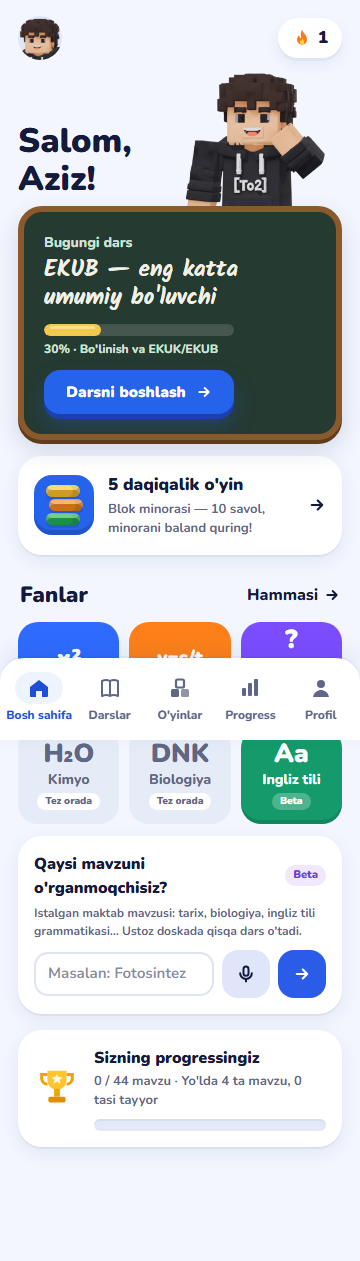
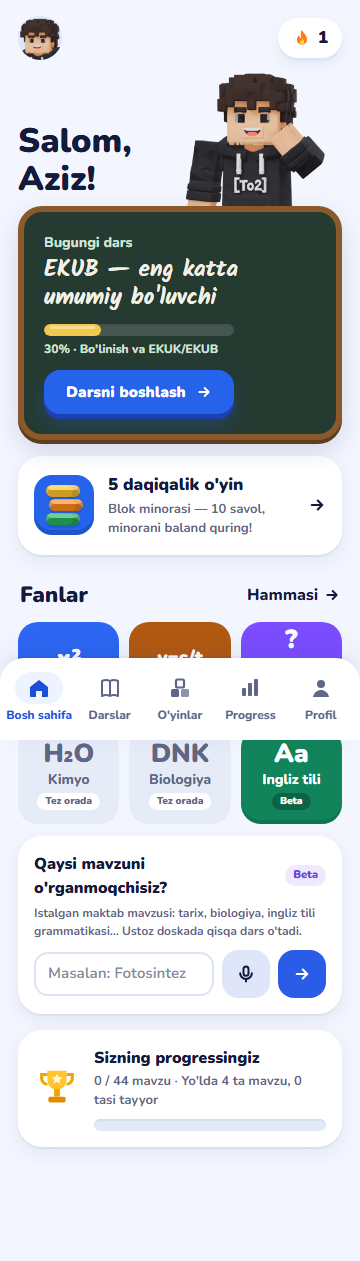
fix(ui): P3 — classroom hero with live TutorHero, Tez orada row, flat cards, guest greeting, one settings entry, decimal comma
- C5/C6/C7: picker hero = flat classroom + #4's TutorHero (wave on select, lip-sync to the greeting), bubble beside
  the head; selected tutor not repeated in the grid; locked tutors in a small "Tez orada" row (tap = greeting)
- U3: no gradient washes — chalkboard "Bugungi dars" card, flat AA tiles (aaFill), flat card-head/icon-tile/buttons,
  splash and success screen; contrast issues the gradients hid are fixed (axe green)
- U4: no "Salom, Mehmon!" — guests get "Salom!" + the tutor's line; onboarding doesn't prefill "Mehmon"
- U6: settings only under the Profil tab (Home gear removed)
- G5/U7: uzDecimal() for question text, options and prompts outside games; checker input unchanged

Changed region(s): [[0.3361, 0.4948, 0.6417, 0.5258], [0.7639, 0.6186, 0.8556, 0.6495]]

diff --git a/src/components/characters/TutorPicker.tsx b/src/components/characters/TutorPicker.tsx
@@ -2,7 +2,8 @@
 // "Qahramonlar" (prototype screen 4), 25 Nov report C5–C7:
 // - hero = the selected tutor, FULL BODY, in a flat classroom (wall · chalkboard with the name in chalk · wood floor);
 //   no gradient wash. The greeting bubble sits BESIDE the tutor's head (left of it), never over the face.
-//   The hero's tutor slot is <HeroTutor/>: today a full-body portrait; #4's live 3D TutorHero swaps in there.
+//   The hero's tutor is #4's live 3D <TutorHero/> (idle · waves on select · lip-sync to the greeting); it shows
+//   the full-body portrait until the model draws or if WebGL fails. Only the hero has a canvas: grid = portraits.
 // - "Ustozlar": the other selectable tutors (the selected one is not repeated — it is the hero).
 // - "Tez orada": locked tutors as a small row; a tap shakes the card and plays its greeting (static file or
 //   captions only — greet() never asks /api/tts for a line that isn't cached), the words shown under the row.
@@ -13,17 +14,10 @@ import { greetingApiAllowed, greetingClip } from "@/lib/audio/greetings";
 import { readPref } from "@/lib/client/prefs";
 import { t } from "@/i18n/uz";
 import TutorPortrait from "./TutorPortrait";
+import TutorHero from "./TutorHero";
 import { LockIcon, SpeakerIcon } from "@/components/ui/icons";
 import { Burst } from "@/components/ui/Celebrate";
 
-/** The tutor in the hero. Swap point for #4's live 3D TutorHero (idle · wave on select · lip-sync). */
-function HeroTutor({ id, waveKey }: { id: CharacterId; waveKey: number }) {
-  return (
-    <div key={`${id}-${waveKey}`} className="bounce-in absolute right-[-14px] bottom-[8px] h-[272px] w-[204px]" data-testid="hero-tutor">
-      <TutorPortrait id={id} pose={waveKey ? "wave" : "idle"} frame="full" className="h-full w-full" style={{ objectFit: "contain", objectPosition: "50% 100%" }} />
-    </div>
-  );
-}
 
 export default function TutorPicker({ value, onChange, xp, streak }: { value: CharacterId; onChange: (id: CharacterId) => void; xp: number; streak: number }) {
   const sel = getCharacter(value);
@@ -31,6 +25,8 @@ export default function TutorPicker({ value, onChange, xp, streak }: { value: Ch
   const [bump, setBump] = useState(0);
   /** the greeting being said now (shown in a bubble until it ends) */
   const [saying, setSaying] = useState<{ id: string; text: string } | null>(null);
+  /** the Speech of the greeting playing now — the hero's mouth follows it */
+  const [speech, setSpeech] = useState<{ id: string; s: Speech } | null>(null);
   const current = useRef<Speech | null>(null);
   const turn = useRef(0);
 
@@ -47,13 +43,17 @@ export default function TutorPicker({ value, onChange, xp, streak }: { value: Ch
     unlockAudio();
     current.current?.stop();
     current.current = null;
+    setSpeech(null);
     const my = ++turn.current;
     setSaying({ id: c.id, text: c.hi });
     const start = (s: Speech) => {
       if (my !== turn.current) return s.stop();
       current.current = s;
+      setSpeech({ id: c.id, s });
       void s.ended.then(() => {
-        if (my === turn.current) setSaying(null);
+        if (my !== turn.current) return;
+        setSaying(null);
+        setSpeech(null);
       });
     };
     if (readPref("sound", "1") === "0") return start(speak(c.hi, c.id, { muted: true }));
@@ -96,7 +96,9 @@ export default function TutorPicker({ value, onChange, xp, streak }: { value: Ch
         {/* wood floor */}
         <div aria-hidden className="absolute inset-x-0 bottom-0 h-[64px] border-t-4 border-[#a87442] bg-[#c08a55]" />
         <Burst fire={bump} count={14} />
-        <HeroTutor id={value} waveKey={bump} />
+        <div className="absolute right-[-14px] bottom-[8px] h-[272px] w-[204px]" data-testid="hero-tutor">
+          <TutorHero id={value} speaking={speech?.id === sel.id ? speech.s : null} wave={bump} className="h-full w-full" />
+        </div>
         <h2 className="sr-only">{`${sel.name} — ${sel.tag}`}</h2>
         <div aria-live="polite" className="absolute top-3 left-3 w-[58%]">
           {bubble && (

diff --git a/src/app/home/page.tsx b/src/app/home/page.tsx
@@ -12,6 +12,7 @@ import { SUBJECTS } from "@/config/subjects";
 import TopicAsk from "@/components/home/TopicAsk";
 import { getCharacter } from "@/config/characters";
 import { GUEST_NAME } from "@/config/brand";
+import { aaFill } from "@/lib/format/color";
 import { useMe } from "@/lib/client/me";
 
 export default function HomePage() {
@@ -121,7 +122,7 @@ export default function HomePage() {
                 <b className={`${s.icon.length > 3 ? "text-[19px]" : "text-[26px]"} leading-none font-black`}>{s.icon}</b>
                 <span className="px-1 text-center leading-tight">{s.name}</span>
                 {s.status !== "live" && (
-                  <span className={`rounded-full px-2 py-[1px] text-[10px] font-black ${s.status === "beta" ? "bg-white/25 text-white" : "bg-white text-[#5f6787]"}`}>
+                  <span className={`rounded-full px-2 py-[1px] text-[10px] font-black ${s.status === "beta" ? "bg-black/25 text-white" : "bg-white text-[#5f6787]"}`}>
                     {s.status === "beta" ? t.home.beta : t.home.soon}
                   </span>
                 )}
@@ -140,7 +141,7 @@ export default function HomePage() {
                 href={s.href ?? "#istalgan-mavzu"}
                 onClick={s.href ? undefined : () => setTimeout(() => document.getElementById("topic-input")?.focus(), 50)}
                 className={`${cls} text-white shadow-[inset_0_-4px_0_rgba(0,0,0,.12)]`}
-                style={{ background: s.to }}
+                style={{ background: aaFill(s.to) }}
               >
                 {body}
               </Link>

diff --git a/src/lib/format/color.ts b/src/lib/format/color.ts
@@ -1,0 +1,33 @@
+// Colour helpers for flat fills with white text (WCAG AA). Used where a config colour (e.g. a subject's
+// accent in src/config/subjects.ts) becomes a flat tile background: we darken it just enough for white text.
+
+function rgb(hex: string): [number, number, number] {
+  const h = hex.replace("#", "");
+  const f = h.length === 3 ? h.split("").map((c) => c + c).join("") : h;
+  return [0, 2, 4].map((i) => parseInt(f.slice(i, i + 2), 16)) as [number, number, number];
+}
+const lin = (c: number) => {
+  const s = c / 255;
+  return s <= 0.03928 ? s / 12.92 : ((s + 0.055) / 1.055) ** 2.4;
+};
+export function luminance(hex: string): number {
+  const [r, g, b] = rgb(hex).map(lin);
+  return 0.2126 * r + 0.7152 * g + 0.0722 * b;
+}
+/** contrast ratio of white text on `hex` */
+export const contrastWithWhite = (hex: string) => 1.05 / (luminance(hex) + 0.05);
+
+const toHex = (n: number) => Math.max(0, Math.min(255, Math.round(n))).toString(16).padStart(2, "0");
+
+/** `hex` darkened (towards black, same hue) until white text on it reaches `min` (default 4.6, a hair over AA 4.5). */
+export function aaFill(hex: string, min = 4.6): string {
+  let [r, g, b] = rgb(hex);
+  let out = `#${toHex(r)}${toHex(g)}${toHex(b)}`;
+  for (let i = 0; i < 40 && contrastWithWhite(out) < min; i++) {
+    r *= 0.95;
+    g *= 0.95;
+    b *= 0.95;
+    out = `#${toHex(r)}${toHex(g)}${toHex(b)}`;
+  }
+  return out;
+}

diff --git a/src/lib/format/color.test.ts b/src/lib/format/color.test.ts
@@ -1,0 +1,17 @@
+import { describe, expect, it } from "vitest";
+import { aaFill, contrastWithWhite } from "./color";
+
+describe("aaFill (flat tile colour readable with white text)", () => {
+  it("leaves colours that already pass alone", () => {
+    expect(aaFill("#1d4ed8")).toBe("#1d4ed8");
+  });
+  it("darkens light accents until white text passes AA", () => {
+    for (const c of ["#ff8019", "#9d79ff", "#50b390", "#2f6bff", "#159a6b", "#ffc42e"]) {
+      const out = aaFill(c);
+      expect(contrastWithWhite(out)).toBeGreaterThanOrEqual(4.5);
+    }
+  });
+  it("matches the known ratio for the primary blue", () => {
+    expect(contrastWithWhite("#2563eb")).toBeCloseTo(5.17, 1);
+  });
+});

diff --git a/src/app/page.tsx b/src/app/page.tsx
@@ -13,7 +13,7 @@ export default function Landing() {
   return (
     <main className="bg-ph">
       {/* 1 · splash */}
-      <section className="relative flex min-h-dvh flex-col items-center overflow-hidden text-white" style={{ background: "#2358dc" }}>
+      <section className="relative flex min-h-dvh flex-col items-center overflow-hidden text-white" style={{ background: "#1d4ed8" }}>
         <div aria-hidden className="pointer-events-none absolute inset-0 font-black text-white/90">
           <span className="absolute left-[7%] top-[36%] text-[52px]">+</span>
           <span className="absolute right-[10%] top-[30%] text-[44px]">÷</span>

diff --git a/REPORT.md b/REPORT.md
@@ -1280,3 +1280,46 @@ demo at `/dev/hero`, 404 in production). The lesson tutor's rest spot now keeps 
   generates voice. That's within caps (warn 15k / hard 60k), but worth knowing for the budget.
 - **#10 (games P3):** WIP only (`4a0b681` on `feat/games-p3`: shared sfx, +XP, full-body tutor, Blok minorasi building site). Its session
   hit its usage limit. Not merged; Tezkor hisob, Juftini top, G5 and e2e are still open.
+
+## 🎨 P3 — picker, flat cards, greeting, settings, decimal comma (#5 To2-UI, branch `fix/ui-p3`, 28 Nov) — not deployed
+Fix ids from the 25 Nov report: **C5, C6, C7, U3, U4, U6, G5/U7 (outside games)**, plus #4's `TutorHero` swapped in. 0 VoiceLab credits.
+
+**Picker (`TutorPicker.tsx`, used by `/tutors` and `/onboarding`):**
+- **C7 hero:** a flat classroom (wall · chalkboard with the tutor's name and tag in chalk · wood floor), no gradient wash or dots.
+  The tutor is **#4's live 3D `TutorHero`** (full body, idle, `wave` bumped only on select, `speaking` = the greeting's
+  `Speech`, so the mouth follows the voice). Until the model draws, or if WebGL fails, it shows the full-body portrait.
+  The greeting **bubble sits left of the tutor at head height, with its tail pointing at the head**, never over the face
+  (measured at 360 px: bubble ends at x 218, the tutor's head starts right of it).
+- **C5:** the selected tutor is only the hero; the grid ("Ustozlar") shows the other selectable tutors.
+- **C6:** locked tutors are a small **"Tez orada" row** (104×132 cards, dimmed). A tap shakes the card and plays its greeting
+  (static file / captions only, never `/api/tts`); the line shows under the row. They are plain buttons now (not disabled
+  radios), so taps reach them.
+- One canvas on the page (the hero); the grid and row are static portraits.
+
+**U3, gradient washes removed:**
+- Home "Bugungi dars" is a **flat chalkboard card** (`.chalk-card`: slate in a wood frame, title in chalk, yellow progress).
+- Home subject tiles are flat, filled with `aaFill(subject colour)` (`src/lib/format/color.ts`, tested): the subject's own
+  hue, darkened only until white text reaches AA. `subjects.ts` is untouched. "Istalgan" is flat purple.
+- The game-card icon, `.card-head`, `.icon-tile`, `.btn-primary`/`.btn-green`, the splash (`#1d4ed8`), the "A'lo!" success
+  screen and the progress XP bar are flat.
+- ⚠ The old gradients hid AA failures: axe can't measure contrast on gradients, so flat fills exposed tiles at 2.5–4.49:1.
+  All fixed (splash link, tiles, "Beta" pill → dark overlay). a11y axe e2e passes.
+
+**U4:** a learner without a nickname (empty or the stored default `brand.guestName` = "Mehmon") sees **"Salom!" + the tutor's
+line** on Home, never "Salom, Mehmon!". Onboarding shows such a learner an empty nickname field instead of "Mehmon".
+
+**U6:** the gear on Home is gone; settings live only under the **Profil** tab (and the sidebar on desktop).
+
+**G5/U7, decimal comma (display only):** `uzDecimal()` (`src/lib/format/uzNum.ts`, tested) turns a dot between digits into a
+comma. It's used in practice and diagnostic question text, `AnswerInput` options and prompts, and the teacher page sample
+problems. Values sent to the checker are unchanged (it accepts both). The e2e quiz helper picks the option by its
+comma-formatted text. **Not covered (rules):** LessonPlayer captions and the board (`LessonPlayer.tsx`/`Board.tsx` are
+off-limits); games are #10's.
+
+**Checks:** vitest 354/354 (new: decimal-comma and colour tests) · tsc clean · build ok · **e2e 39/39 incl. a11y axe** on my own
+mock server (:5211, no `.dev.vars`). Live 3D hero verified with Playwright (SwiftShader): 1 canvas, the model draws, picking
+Lola swaps the model and plays her file, 0 `/api/tts` calls, no page errors.
+
+Screenshots `docs/screenshots/ui-p3/`: `before-*` / `after-*` for /home /tutors /onboarding /settings /progress at 375 and 360
+(full page; the fixed tab bar shows mid-page in full-page captures), plus `after-tutors-360-{bubble,lola,locked,hero3d}.png`
+and `after-home-guest-360.png`.
